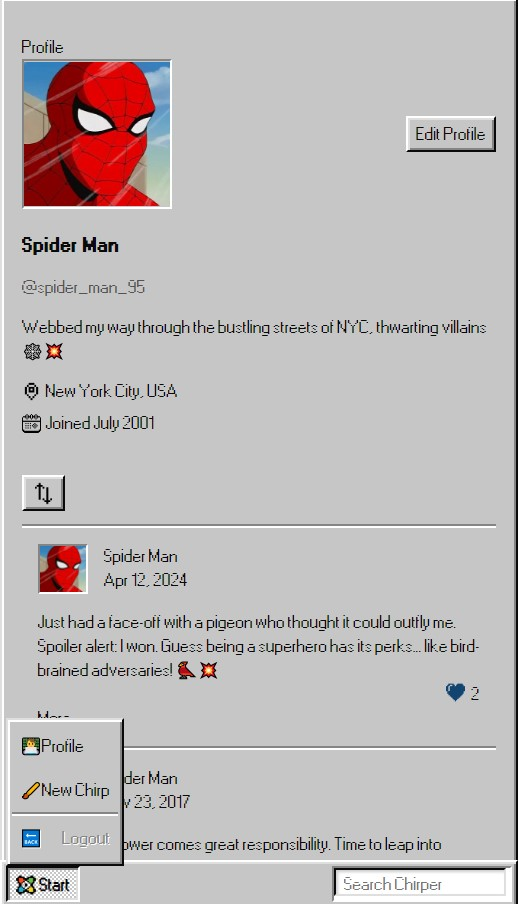
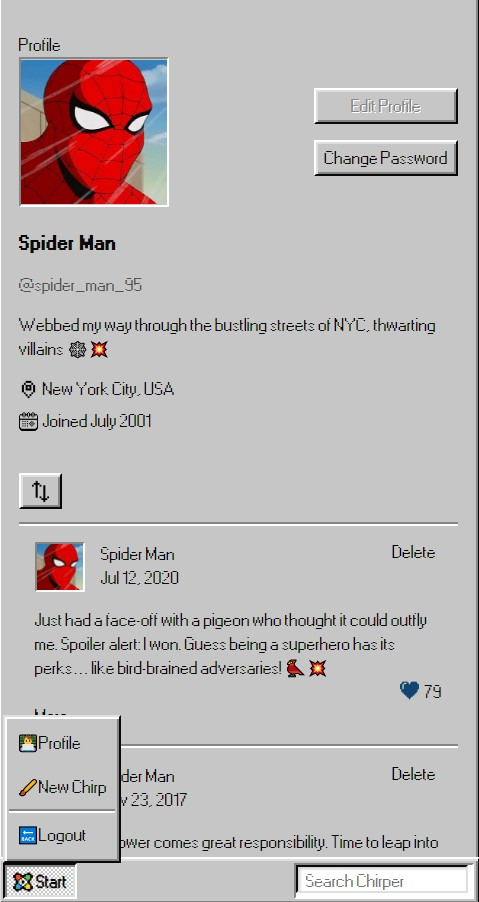
readme edit

Changed region(s): [[0.0, 0.0, 1.0, 1.0], [0.643, 0.0931, 0.9645, 0.2173], [0.8184, 0.8381, 0.9061, 0.8692]]

diff --git a/README.md b/README.md
@@ -6,9 +6,10 @@ The Firebase Realtime Database is used to store and retrieve data.
 
 Live - https://chirper-new.web.app/
 
-<img src="./public/desktop-design_1.jpg" />
-<img src="./public/desktop-design_2.jpg" />
-<img src="./public/desktop-design_3.jpg" />
+<img src="./public/desktop-design-1.jpg" />
+
+<img src="./public/desktop-design.gif" />
+
 <img src="./public/mobile-design.jpg" />
 
 ## Features:
@@ -16,6 +17,8 @@ Live - https://chirper-new.web.app/
 - View the main page, which contains all the posts.
 - Sorting tweets.
 - View the post individually.
-- Tweeting: you can post tweets and add emojy.
-- Comments: you can post comments.
+- Authentication: users can sign up, log in and log out.
+- Change Password: users can update their passwords.
+- Tweeting: users can post tweets and add emojy and delete tweets.
+- Comments: users can post comments.
 - Responsive Design: optimized for viewing on both desktop and mobile devices.
